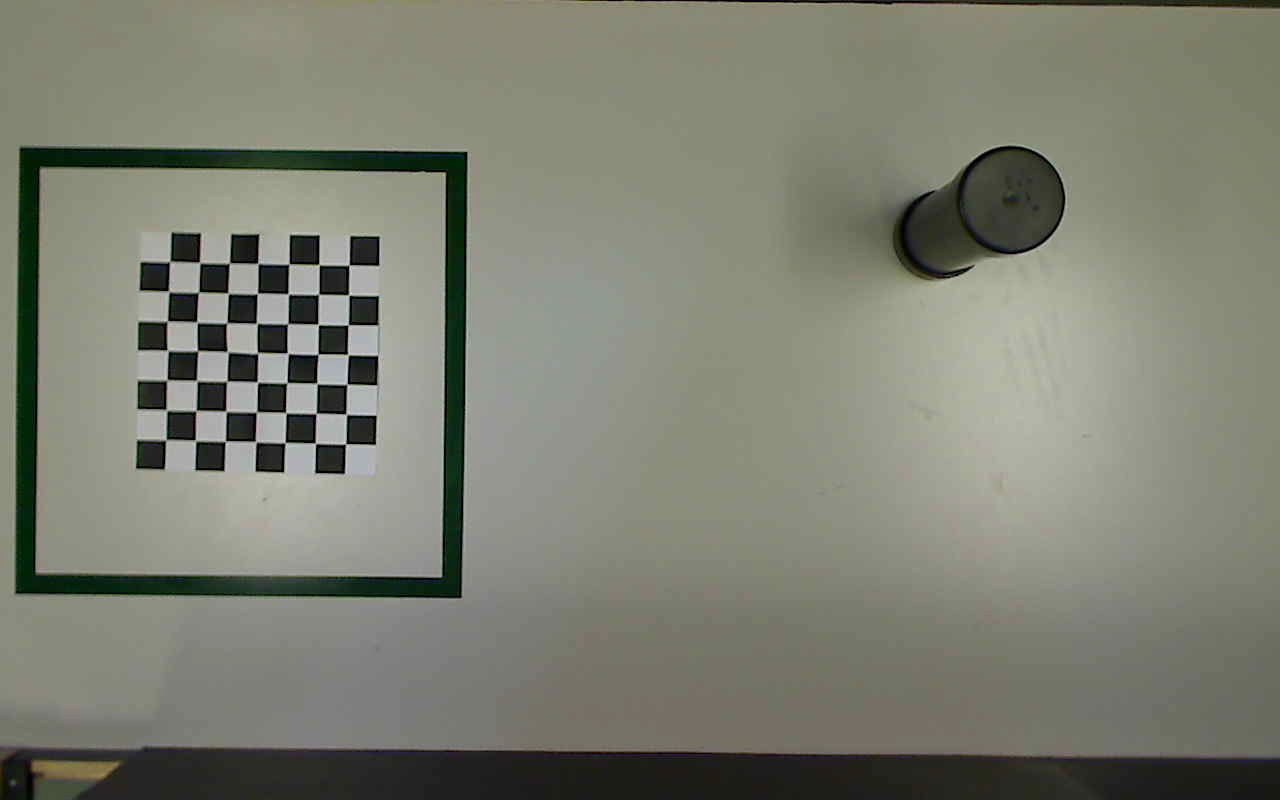
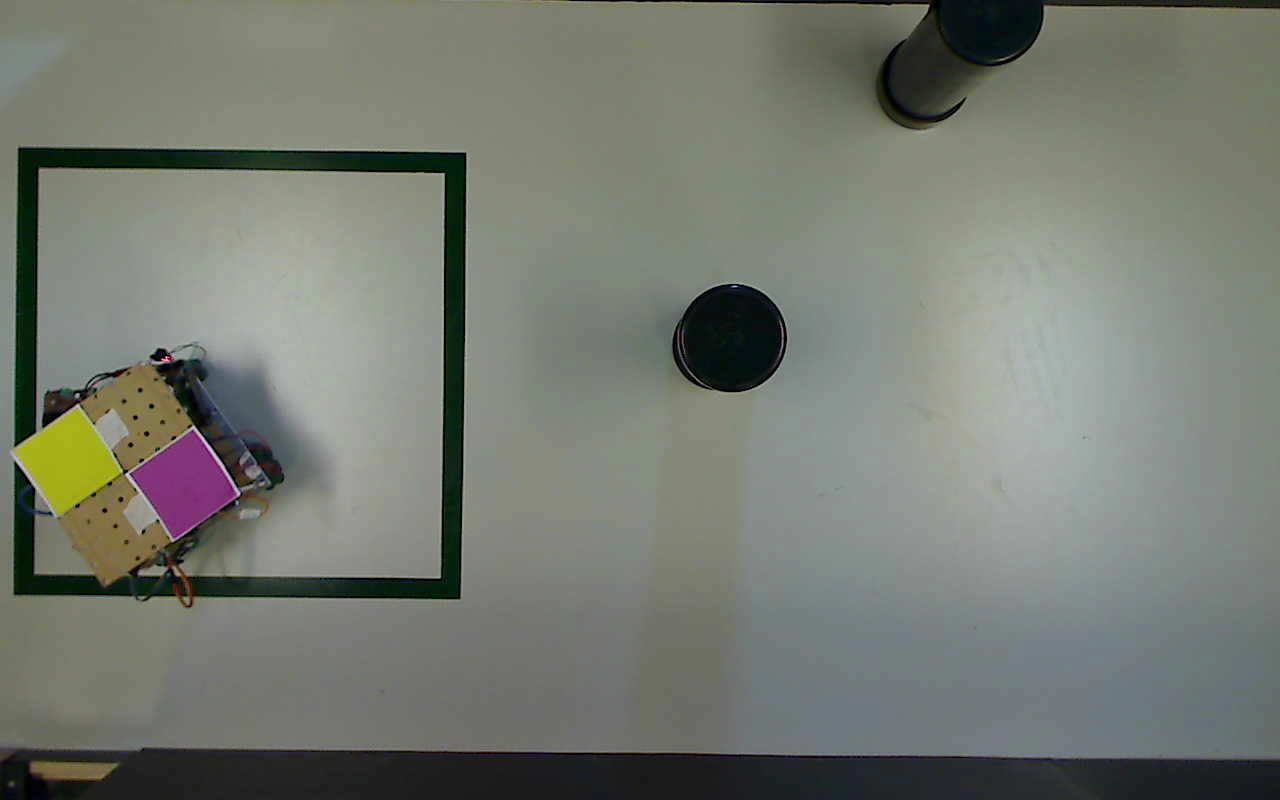
added test for angle fixed

diff --git a/util/robot_angle_test.py b/util/robot_angle_test.py
@@ -1,0 +1,56 @@
+import time
+import cv2
+import traceback
+from domain.image_path_analysis.RobotDetector import RobotDetector
+from infrastructure.communication_pi import comm_pi
+
+
+def take_image():
+    try:
+        cap = cv2.VideoCapture(0)
+        ret, img = cap.read()
+        cap.release()
+
+        #cv2.imshow("imageCourante", img)
+        #cv2.waitKey(0)
+
+        return img
+    except Exception as ex:
+        print("Camera not working")
+
+
+def test():
+    comm_pi.connectToPi()
+    time.sleep(5)
+
+    comm_pi.sendCoordinates("0,0,-10\n")
+    time.sleep(5)
+
+    print("Rotating robot phase: ")
+    counter = 0
+
+    start = time.time()
+
+    while counter < 31:
+        try:
+            img = take_image()
+
+            robot_detector = RobotDetector(img)
+            robot_angle = robot_detector.find_angle_of_robot()
+            print("Angle: " + str(robot_angle))
+            end = time.time() - start
+            print("Time: " + str(end))
+
+            counter = counter + 1
+        except Exception as ex:
+            print(ex)
+
+    final = time.time() - start
+    print("Total Time: " + str(final))
+
+    comm_pi.sendCoordinates("0,0,0\n")
+
+
+test()
+
+

diff --git a/domain/image_path_analysis/RobotDetector.py b/domain/image_path_analysis/RobotDetector.py
@@ -8,7 +8,7 @@ YELLOW_HSV_LOW = np.array([20, 100, 160])
 YELLOW_HSV_HIGH = np.array([30, 255, 255])
 RED_HSV_LOW = np.array([150, 100, 100])
 RED_HSV_HIGH = hsv_high = np.array([180, 255, 255])
-RADIUS_OF_MARKER = 5
+RADIUS_OF_MARKER = 3
 
 
 class RobotDetector:
@@ -70,10 +70,12 @@ class RobotDetector:
         hsv = cv2.cvtColor(self.image, cv2.COLOR_BGR2HSV)
 
         mask = cv2.inRange(hsv, YELLOW_HSV_LOW, YELLOW_HSV_HIGH)
+        #cv2.imshow("yellow_mask", mask)
         return self.__find_center_of_contour(mask)
 
     def __find_red_marker_center(self):
         hsv = cv2.cvtColor(self.image, cv2.COLOR_BGR2HSV)
 
         mask = cv2.inRange(hsv, RED_HSV_LOW, RED_HSV_HIGH)
+        #cv2.imshow("red_mask", mask)
         return self.__find_center_of_contour(mask)

diff --git a/util/test_comm.py b/util/test_comm.py
@@ -1,0 +1,33 @@
+import time
+from infrastructure.communication_pi import comm_pi
+
+comm_pi.connectToPi()
+time.sleep(5)
+
+switch = True
+
+while switch:
+
+    """
+    comm_pi.sendCoordinates("390,0\n")
+    time.sleep(5)
+
+    comm_pi.sendCoordinates("0,381\n")
+    time.sleep(5)
+
+    comm_pi.sendCoordinates("-390,0\n")
+    time.sleep(5)
+
+    comm_pi.sendCoordinates("0,-381\n")
+    time.sleep(5)
+    """
+
+    coord = input("Coord:")
+    print(coord)
+
+    if coord == "end":
+        switch = False
+        break
+
+    comm_pi.sendCoordinates(coord + "\n")
+    time.sleep(5)

diff --git a/util/cam.py b/util/cam.py
@@ -1,7 +1,7 @@
 import cv2
 
 cap = cv2.VideoCapture(0)
-ret,img = cap.read()
+ret, img = cap.read()
 cap.release()
 cv2.imwrite('calibration2.jpg', img)
 cv2.imshow('ok', img)
